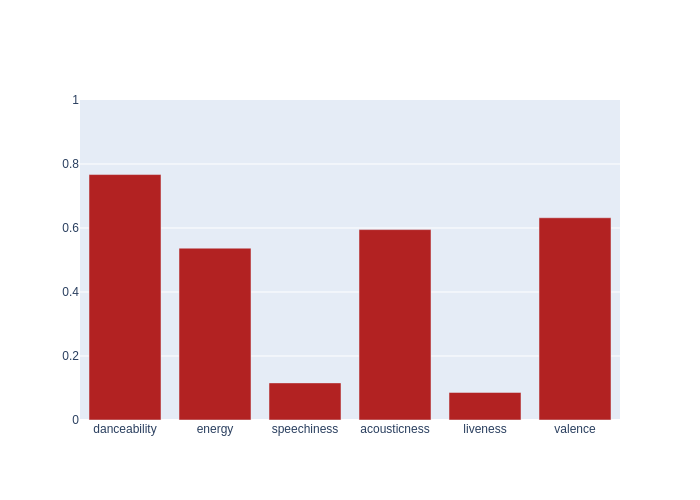
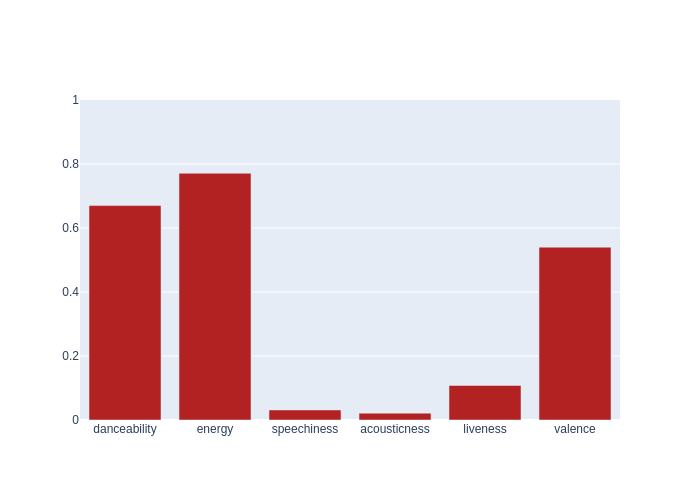
Automated README update

Changed region(s): [[0.36, 0.45, 0.75, 0.84], [0.12, 0.33, 0.36, 0.51], [0.75, 0.42, 0.87, 0.51]]

diff --git a/README.md b/README.md
@@ -4,10 +4,10 @@ Automated music metrics for fun, updated hourly.
 
 ## Spotify
 
-- currently listening to **Drex Carter - Monday Mourning**
+- currently listening to **Laurence Guy - Untitled Needs**
 
 - **900** liked songs
-- **147** playlists
+- **148** playlists
 
 - top artists: 
 
